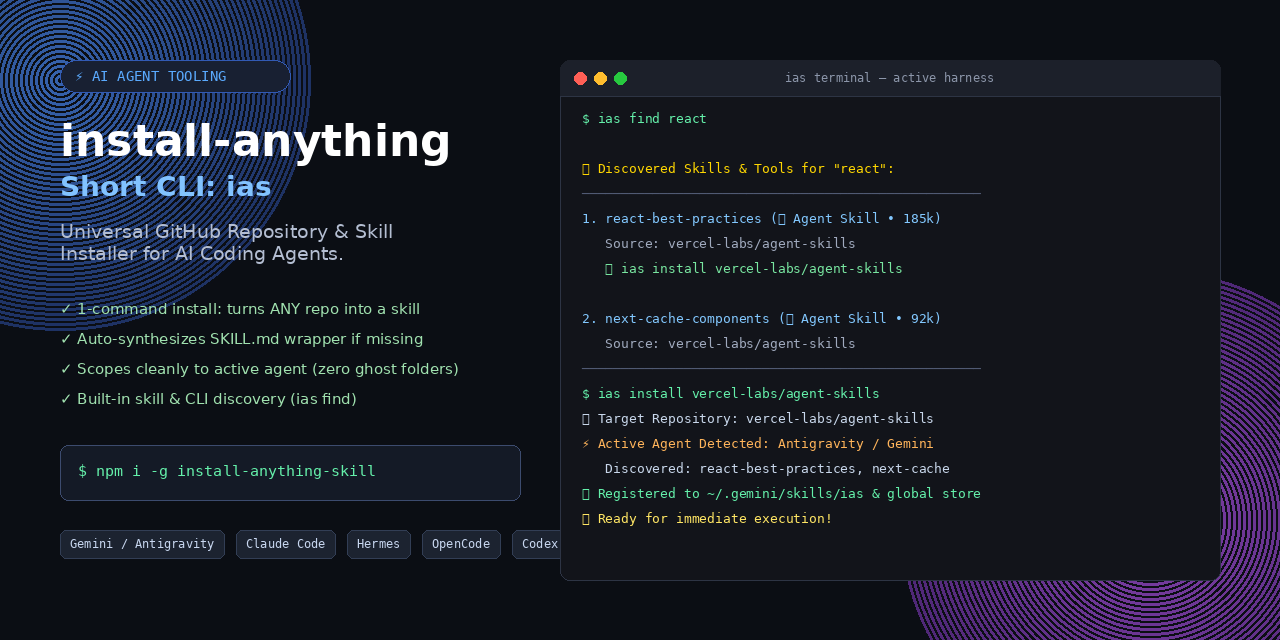
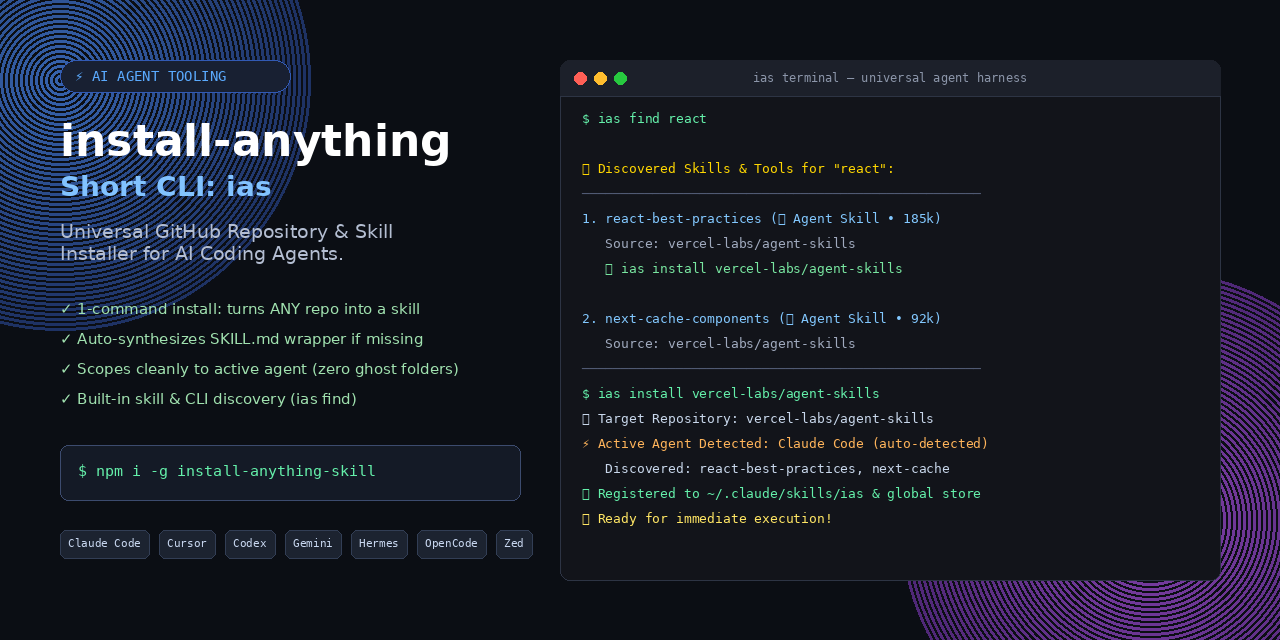
docs: balance agent representation to highlight universal compatibility across all AI coding agents

diff --git a/assets/index.html b/assets/index.html
@@ -410,7 +410,7 @@ footer {
       <div class="instrument">
         <div class="instrument-bar">
           <span>cli execution monitor</span>
-          <span class="instrument-status">active: antigravity/gemini</span>
+          <span class="instrument-status">active: universal agent harness</span>
         </div>
         <div class="instrument-nav">
           <button class="inst-tab active" onclick="switchRun('find')">find</button>
@@ -435,27 +435,27 @@ footer {
 
       <div class="harness-list">
         <div class="harness-item">
-          <h3 class="harness-title">Antigravity / Gemini</h3>
-          <div class="harness-path">~/.gemini/skills/ (active caller)</div>
-          <p class="harness-desc">Configured specifically when invoked in AGY sessions. Direct registration without residue.</p>
+          <h3 class="harness-title">Claude Code</h3>
+          <div class="harness-path">~/.claude/skills/ (adaptive)</div>
+          <p class="harness-desc">Auto-detected during Claude Code runtime. Synced directly with /ias slash commands.</p>
         </div>
 
         <div class="harness-item">
           <h3 class="harness-title">Open Agents</h3>
           <div class="harness-path">~/.agents/skills/ (cross-agent)</div>
-          <p class="harness-desc">Shared storage lockfile maintaining verified versions across team workflows.</p>
+          <p class="harness-desc">Shared canonical storage lockfile maintaining verified versions across workflows.</p>
         </div>
 
         <div class="harness-item">
-          <h3 class="harness-title">Claude Code</h3>
-          <div class="harness-path">~/.claude/skills/ (adaptive)</div>
-          <p class="harness-desc">Auto-detected during Claude Code runtime. Synced only when active.</p>
+          <h3 class="harness-title">Cursor & Codex</h3>
+          <div class="harness-path">~/.cursor/ & ~/.codex/</div>
+          <p class="harness-desc">Detected or targeted on demand. Zero ghost directories when not in use.</p>
         </div>
 
         <div class="harness-item">
-          <h3 class="harness-title">Codex / Zed</h3>
-          <div class="harness-path">unmodified (zero ghost)</div>
-          <p class="harness-desc">No ghost directories created for uninstalled harnesses. Filesystem stays clean.</p>
+          <h3 class="harness-title">Hermes & OpenCode</h3>
+          <div class="harness-path">~/.hermes/ & ~/.config/opencode/</div>
+          <p class="harness-desc">Integrated commands and skill dispatchers for open agent runtimes.</p>
         </div>
       </div>
     </div>
@@ -552,14 +552,14 @@ footer {
         '<span class="line-sky">query: ponlytail (fuzzy match -&gt; ponytail)</span>',
         '<span class="line-ink">1. ponytail [Installed] (15k installs)</span>',
         '<span class="line-dim">   source: dietrichgebert/ponytail</span>',
-        '<span class="line-green">   status: active in ~/.gemini/skills/</span>'
+        '<span class="line-green">   status: active across agent skills</span>'
       ],
       install: [
         '<span class="line-dim">$ ias install affaan-m/ECC</span>',
-        '<span class="line-sky">active agent detected: antigravity/gemini</span>',
-        '<span class="line-green">registered 24 skills in ~/.gemini/skills/</span>',
+        '<span class="line-sky">active agent detected: auto-detected (claude-code)</span>',
+        '<span class="line-green">registered 24 skills in ~/.claude/skills/ &amp; ~/.agents/skills/</span>',
         '<span class="line-dim">synced ~/.agents/.skill-lock.json</span>',
-        '<span class="line-ink">scope: .codex and .zed untouched</span>'
+        '<span class="line-ink">scope: unconfigured agent directories untouched (zero ghost)</span>'
       ],
       diagnose: [
         '<span class="line-dim">$ ias diagnose</span>',
@@ -569,7 +569,7 @@ footer {
       ],
       uninstall: [
         '<span class="line-dim">$ ias uninstall affaan-m/ECC</span>',
-        '<span class="line-sky">locating registrations in ~/.gemini/skills/</span>',
+        '<span class="line-sky">locating registrations in active harness &amp; global storage</span>',
         '<span class="line-green">removed 24 symlinks</span>',
         '<span class="line-ink">environment cleanly restored</span>'
       ]

diff --git a/scripts/generate_assets.py b/scripts/generate_assets.py
@@ -87,20 +87,20 @@ def generate_social_preview():
     draw.text((78, 462), "$ npm i -g install-anything-skill", font=font_cmd, fill=(100, 240, 170))
 
     # Supported agent pills
-    agents = ["Gemini / Antigravity", "Claude Code", "Hermes", "OpenCode", "Codex"]
+    agents = ["Claude Code", "Cursor", "Codex", "Gemini", "Hermes", "OpenCode", "Zed"]
     ax = 60
     ay = 530
-    font_p = get_font(MONO_FONT_PATH, 12)
+    font_p = get_font(MONO_FONT_PATH, 11)
     for ag in agents:
         abox = font_p.getbbox(ag)
-        pw = (abox[2] - abox[0]) + 20
+        pw = (abox[2] - abox[0]) + 16
         draw.rounded_rectangle([ax, ay, ax + pw, ay + 28], radius=6, fill=(28, 35, 48), outline=(50, 62, 85))
-        draw.text((ax + 10, ay + 6), ag, font=font_p, fill=(200, 215, 240))
-        ax += pw + 12
+        draw.text((ax + 8, ay + 6), ag, font=font_p, fill=(200, 215, 240))
+        ax += pw + 10
 
     # Right column: Mini terminal window
     tx, ty, tw, th = 560, 60, 660, 520
-    draw_terminal_window(draw, tx, ty, tw, th, title="ias terminal — active harness")
+    draw_terminal_window(draw, tx, ty, tw, th, title="ias terminal — universal agent harness")
 
     # Terminal content
     tfont = get_font(MONO_FONT_PATH, 13)
@@ -118,9 +118,9 @@ def generate_social_preview():
         ("───────────────────────────────────────────────────", (80, 90, 115)),
         ("$ ias install vercel-labs/agent-skills", (100, 240, 170)),
         ("📦 Target Repository: vercel-labs/agent-skills", (200, 215, 235)),
-        ("⚡ Active Agent Detected: Antigravity / Gemini", (255, 180, 90)),
+        ("⚡ Active Agent Detected: Claude Code (auto-detected)", (255, 180, 90)),
         ("   Discovered: react-best-practices, next-cache", (200, 215, 235)),
-        ("✅ Registered to ~/.gemini/skills/ias & global store", (100, 240, 170)),
+        ("✅ Registered to ~/.claude/skills/ias & global store", (100, 240, 170)),
         ("✨ Ready for immediate execution!", (255, 230, 100)),
     ]
 
@@ -198,10 +198,10 @@ def generate_demo_gif():
         elif out_level >= 3:
             lines.append(("$ ias install vercel-labs/agent-skills", (100, 240, 170)))
             lines.append(("📦 Target Repository: vercel-labs/agent-skills", (200, 215, 235)))
-            lines.append(("⚡ Active Agent Detected: Antigravity / Gemini", (255, 180, 90)))
+            lines.append(("⚡ Active Agent Detected: Claude Code (auto-detected)", (255, 180, 90)))
 
         if out_level >= 4:
-            lines.append(("✅ Registered: ~/.gemini/skills/ias & ~/.agents/skills/", (100, 240, 170)))
+            lines.append(("✅ Registered: ~/.claude/skills/ias & ~/.agents/skills/", (100, 240, 170)))
             lines.append(("✨ Successfully installed! Active agent has immediate access.", (255, 230, 100)))
             lines.append(("$ " + ("█" if cursor else ""), (100, 240, 170)))
 

diff --git a/README.md b/README.md
@@ -32,12 +32,12 @@ npm i -g install-anything-skill
 
 | ✅ Core Capabilities | 🔧 Platform Support | 🌐 Build & Package Managers |
 |----------------------|---------------------|-----------------------------|
-| **Built-in Skill Discovery** (`ias find`) | **Antigravity / Gemini** (`~/.gemini/skills/ias`) | npm, yarn, pnpm, bun |
+| **Built-in Skill Discovery** (`ias find`) | **Claude Code** (`~/.claude/skills/ias`) | npm, yarn, pnpm, bun |
 | **Active-Agent Scoping** (Zero ghost folders) | **Open Agents** (`~/.agents/skills/ias`) | pip, uv, poetry, pipenv |
-| **Auto-Synthesis for Repos without SKILL.md** | **Claude Code** (`~/.claude/skills/ias`) | cargo (Rust compilation) |
-| **README-First Intelligence** | **Hermes** (`~/.hermes/skills/ias`) | go build, go install |
-| **Executable Binary Symlinks** (`~/.local/bin/ias`) | **OpenCode** (`~/.config/opencode/`) | gradle, maven |
-| **Full Lifecycle & Safe Rollback** | **Codex**, **Cursor**, **Zed** | cmake, make |
+| **Auto-Synthesis for Repos without SKILL.md** | **Cursor & Codex** (`~/.cursor/`, `~/.codex/`) | cargo (Rust compilation) |
+| **README-First Intelligence** | **Hermes & OpenCode** (`~/.hermes/`, `~/.config/opencode/`) | go build, go install |
+| **Executable Binary Symlinks** (`~/.local/bin/ias`) | **Gemini & Antigravity** (`~/.gemini/skills/ias`) | gradle, maven |
+| **Full Lifecycle & Safe Rollback** | **Zed & Custom Agent Harnesses** | cmake, make |
 
 </div>
 
@@ -51,7 +51,7 @@ npm i -g install-anything-skill
 | **Repos without `SKILL.md`** | ❌ Cannot install | ✅ **Auto-synthesizes skill wrapper** |
 | **Compiling & Building Code** | ❌ None (copies markdown only) | ✅ **Runs cargo, go, npm, pip, make** |
 | **Binary Tool Exposure** | ❌ No binary execution support | ✅ **Symlinks binaries to `~/.local/bin`** |
-| **Active Agent Directory Scoping** | ❌ Dumps into single generic folder | ✅ **Scopes to caller agent (AGY, Claude, etc.)** |
+| **Active Agent Directory Scoping** | ❌ Dumps into single generic folder | ✅ **Scopes to active caller agent (Claude, Cursor, Codex, Gemini, etc.)** |
 | **Zero Clutter Discipline** | ❌ May leave unused agent folders | ✅ **Never creates folders for unused agents** |
 | **Skill Discovery** | ✅ Remote registry search | ✅ **Live registry + Curated + Offline fallback** |
 | **Tool Repositories & CLIs** | ❌ Prompt skills only | ✅ **Discovers both skills & CLI utilities** |
@@ -87,7 +87,7 @@ cd install-anything-skill
 
 ### What Happens on Installation:
 - ✅ Links the `ias` executable directly to `~/.local/bin/ias` (along with `install-anything`, `install-anything-skill`, and `enlighten`).
-- ✅ Registers `ias`, `install-anything`, `install-anything-installer`, and `install-anything-uninstaller` skills into your active agent folder (e.g., `~/.gemini/skills/ias`) and global canonical storage (`~/.agents/skills/`), avoiding unwanted folders for other unused agents.
+- ✅ Registers skills directly into your active agent's folder (e.g., `~/.claude/skills/`, `~/.cursor/skills/`, `~/.gemini/skills/`, `~/.hermes/skills/`) and global canonical storage (`~/.agents/skills/`), avoiding ghost folders for unused agents.
 - ✅ Installs slash command `/ias` and `/install-anything` for supported agents (Claude Code, Hermes).
 - ✅ Updates `~/.agents/.skill-lock.json`.
 
@@ -107,8 +107,8 @@ ias install vercel-labs/agent-skills
 # Install by full URL
 ias install https://github.com/affaan-m/ECC
 
-# Explicitly target a specific agent harness
-ias install https://github.com/user/repo --agent gemini
+# Explicitly target a specific agent harness (claude, cursor, codex, gemini, hermes, opencode, etc.)
+ias install https://github.com/user/repo --agent claude
 
 # Preview installation without making changes (dry-run)
 ias install https://github.com/user/repo --dry-run
@@ -161,7 +161,7 @@ When an agent or developer runs `install-anything install <repo-url>`:
 ┌───────────▼──────────────────┐  ┌───────▼──────────────────────┐
 │ Register Discovered Skills   │  │ Auto-Synthesize Skill        │
 │ Link into ~/.agents/skills/  │  │ Generate SKILL.md wrapper for│
-│ & active agent (~/.gemini/)  │  │ the newly installed tool     │
+│ & active agent directory     │  │ the newly installed tool     │
 └───────────┬──────────────────┘  └───────┬──────────────────────┘
             └──────────────┬──────────────┘
                            │
@@ -173,8 +173,9 @@ When an agent or developer runs `install-anything install <repo-url>`:
                            │
 ┌──────────────────────────▼─────────────────────────────┐
 │ 4. Active-Agent Scoped Registration                    │
-│    • In AGY: registers to ~/.gemini/skills/ + global   │
-│    • Zero ghost directories for Codex or Zed           │
+│    • Auto-detects caller (Claude, Cursor, Codex, AGY)  │
+│    • Registers to active agent folder + global store   │
+│    • Zero ghost directories in unused agent folders    │
 │    • Updates ~/.agents/.skill-lock.json                │
 └────────────────────────────────────────────────────────┘
 ```
@@ -187,7 +188,7 @@ When an agent or developer runs `install-anything install <repo-url>`:
 |---------|-------------|
 | `ias find <query>` | Discover agent skills, packages, and CLI tool repos (e.g., `ias find react`) |
 | `ias install <url>` | Clone repo, compile binaries, register skills for active agent & global store |
-| `ias install <url> --agent <name>` | Explicitly target an agent harness (e.g. `gemini`, `claude`, `codex`) |
+| `ias install <url> --agent <name>` | Explicitly target an agent harness (e.g. `claude`, `cursor`, `gemini`, `hermes`) |
 | `ias diagnose <url>` | Analyze repository without installing (README guide, languages, frameworks, skills) |
 | `ias list-installed` | Show all managed installations, exposed binaries, and registered skills |
 | `ias uninstall <id> --force` | Safe removal of repository, binaries (`~/.local/bin`), and registered skills |
@@ -197,16 +198,19 @@ When an agent or developer runs `install-anything install <repo-url>`:
 
 ## 🌐 Supported Platforms & Active Directory Scoping
 
+`ias` works across the entire AI agent ecosystem. It automatically detects the active harness at runtime, or lets you target any harness with `--agent <name>`.
+
 | Agent Framework | Skills Directory | Scoping & Integration Behavior |
 |-----------------|------------------|--------------------------------|
-| **Antigravity / Gemini** | `~/.gemini/skills/ias` | Automatic runtime detection (`ANTIGRAVITY_AGENT`); zero pollution to unused agents |
-| **Open Agents** | `~/.agents/skills/ias` & `.skill-lock.json` | Canonical global store (`npx skills` compatible) |
 | **Claude Code** | `~/.claude/skills/ias` | Skills directory & `~/.claude/commands/ias.md` (`/ias`) |
+| **Open Agents** | `~/.agents/skills/ias` & `.skill-lock.json` | Canonical global store (`npx skills` compatible) |
+| **Cursor** | `~/.cursor/skills/` | Automatic runtime detection & targeted on demand (`--agent cursor`) |
+| **Codex** | `~/.codex/skills/` | Automatic runtime detection & targeted on demand (`--agent codex`) |
 | **Hermes** | `~/.hermes/skills/ias` | Skills directory & `~/.hermes/commands/ias.md` (`/ias`) |
 | **OpenCode** | `~/.config/opencode/skills/` | Config plugin / skill directory |
-| **Codex** | `~/.codex/skills/` | Targeted on demand (`--agent codex`) |
-| **Cursor** | `~/.cursor/skills/` | Targeted on demand (`--agent cursor`) |
+| **Antigravity / Gemini** | `~/.gemini/skills/ias` | Automatic runtime detection (`ANTIGRAVITY_AGENT`, `GEMINI_CLI`) |
 | **Zed** | `~/.zed/skills/` | Targeted on demand (`--agent zed`) |
+| **Custom / Headless** | `~/.agents/skills/` | Works with any agent reading standard `SKILL.md` directories |
 
 ---
 

diff --git a/skills/ias/SKILL.md b/skills/ias/SKILL.md
@@ -4,7 +4,7 @@ description: >-
   Universal GitHub repository and skill installer for AI agent harnesses (Install Anything Skill).
   Use this skill whenever asked to install, download, import, or set up any GitHub repository,
   tool, library, or agent skill. It automatically detects project types, scans for skills,
-  registers discovered skills into the active caller agent's skill folder (e.g., Antigravity / Gemini)
+  registers discovered skills into the active caller agent's skill folder (Claude Code, Cursor, Codex, Gemini, Hermes, etc.)
   and global canonical storage (~/.agents/skills/), without modifying or creating unused agent directories,
   and executes build/install instructions suggested by the repository.
 ---
@@ -18,9 +18,12 @@ It automatically discovers skills inside repositories and registers them for the
 
 1. **Auto-Discovery of Skills**: Detects `SKILL.md` files at repository roots or in subdirectories (`skills/*/SKILL.md`, `.agents/skills/*`, etc.).
 2. **Active Agent & Global Registration**: Intelligently detects the calling agent and installs skills only for the active agent and global storage:
-   - Antigravity / Gemini (`~/.gemini/skills/`)
+   - Claude Code (`~/.claude/skills/`)
    - Open Agents (`~/.agents/skills/` & `~/.agents/.skill-lock.json`)
-   - Avoids creating or touching unused directories for other agents (like Codex, Zed, Cursor, etc.).
+   - Cursor & Codex (`~/.cursor/skills/`, `~/.codex/skills/`)
+   - Hermes & OpenCode (`~/.hermes/skills/`, `~/.config/opencode/`)
+   - Antigravity / Gemini (`~/.gemini/skills/`)
+   - Avoids creating or touching unused directories for other agents.
    - Can optionally target any specific harness with `--agent <name>` or all harnesses with `--all-agents`.
 3. **Automatic Skill Synthesis**: If a repository is a tool without an existing `SKILL.md`, `ias` generates an agent skill wrapper so agents can discover and use the newly installed tool.
 4. **Executes Repo Suggestions**: Detects package managers (`npm`, `pip`, `cargo`, `go`, etc.) and suggested build/install commands from `README.md`, executes them, and links binaries to `~/.local/bin`.

diff --git a/QUICKSTART.md b/QUICKSTART.md
@@ -23,13 +23,15 @@ npm install -g install-anything-skill
 
 ## ⚡ Using `ias` in Agent Harnesses
 
-Once installed, `ias` is registered in all agent harnesses:
-- **Antigravity / Gemini**: `~/.gemini/skills/ias`
-- **Open Agents**: `~/.agents/skills/ias`
+Once installed, `ias` is registered across all agent harnesses:
 - **Claude Code**: `~/.claude/skills/ias` & `/ias` command
+- **Open Agents**: `~/.agents/skills/ias` & `~/.agents/.skill-lock.json`
+- **Cursor**: `~/.cursor/skills/`
+- **Codex**: `~/.codex/skills/`
 - **Hermes**: `~/.hermes/skills/ias` & `/ias` command
 - **OpenCode**: `~/.config/opencode/skills/`
-- **Codex / Cursor / Zed**: global skills
+- **Antigravity / Gemini**: `~/.gemini/skills/ias`
+- **Zed & Headless**: canonical global skills
 
 Ask your agent:
 > *"Use ias to install https://github.com/vercel-labs/agent-skills"*
@@ -85,7 +87,7 @@ ias uninstall vercel-labs-agent-skills --force
 When an agent runs `ias install <repo-url>`:
 1. Clones the repository to `~/.install-anything/repos/<owner>/<repo>`.
 2. Scans for language, framework, dependencies, and existing `SKILL.md` files.
-3. Automatically registers discovered skills into `~/.gemini/skills/` (for Antigravity) and canonical `~/.agents/skills/`.
+3. Automatically registers discovered skills into your active agent folder (e.g. `~/.claude/skills/`, `~/.cursor/skills/`, or `~/.gemini/skills/`) and canonical `~/.agents/skills/`.
 4. If no skills exist, auto-synthesizes a tailored `SKILL.md` tool wrapper.
 5. Runs suggested install commands (`npm install`, `pip install`, `cargo build`, etc.).
 6. Symlinks any tool binaries to `~/.local/bin/`.

diff --git a/commands/install-anything.md b/commands/install-anything.md
@@ -23,4 +23,4 @@ Universal GitHub repository and skill installer for AI agent harnesses.
 /install-anything uninstall <id> --force
 ```
 
-Automatically detects language, framework, dependencies, and agent skills from any GitHub repository, registers skills into the calling agent's folder (e.g. `~/.gemini/skills/` for AGY) and global canonical storage (`~/.agents/skills/`), and configures executables for your environment without modifying unused agent folders.
+Automatically detects language, framework, dependencies, and agent skills from any GitHub repository, registers skills into your active agent's folder (Claude Code, Cursor, Codex, Gemini, Hermes, etc.) and global canonical storage (`~/.agents/skills/`), and configures executables for your environment without modifying unused agent folders.

diff --git a/commands/ias.md b/commands/ias.md
@@ -23,4 +23,4 @@ Universal GitHub repository and skill installer for AI agent harnesses.
 /ias uninstall <id> --force
 ```
 
-Automatically detects language, framework, dependencies, and agent skills from any GitHub repository, registers skills into the calling agent's folder (e.g. `~/.gemini/skills/` for AGY) and global canonical storage (`~/.agents/skills/`), and configures executables for your environment without modifying unused agent folders.
+Automatically detects language, framework, dependencies, and agent skills from any GitHub repository, registers skills into your active agent's folder (Claude Code, Cursor, Codex, Gemini, Hermes, etc.) and global canonical storage (`~/.agents/skills/`), and configures executables for your environment without modifying unused agent folders.
